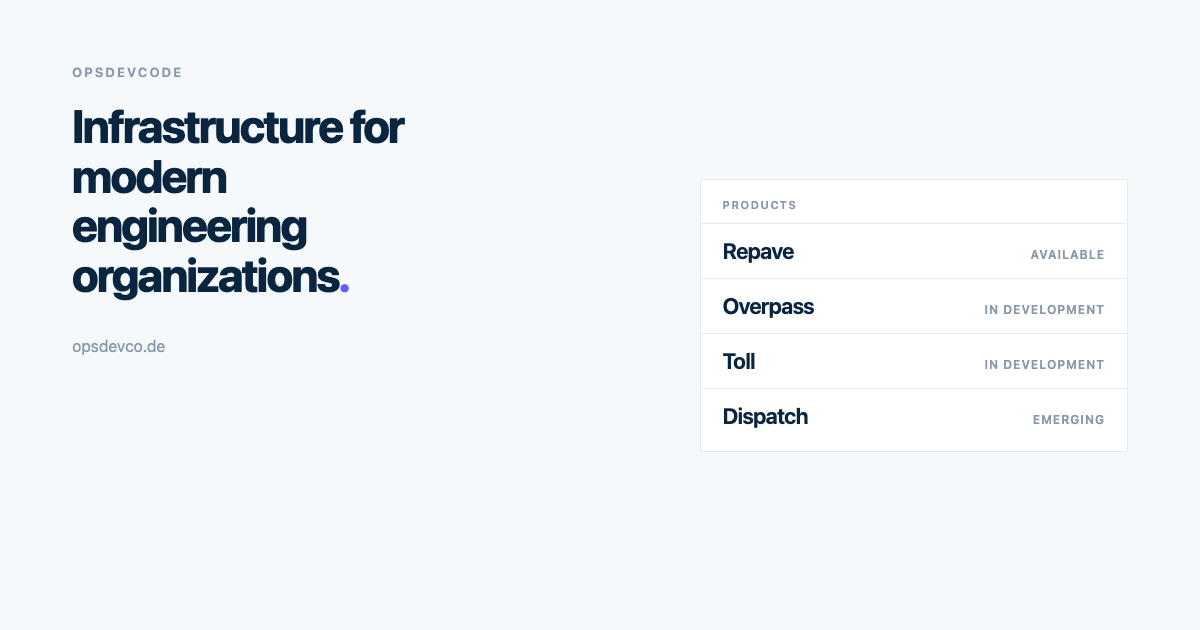
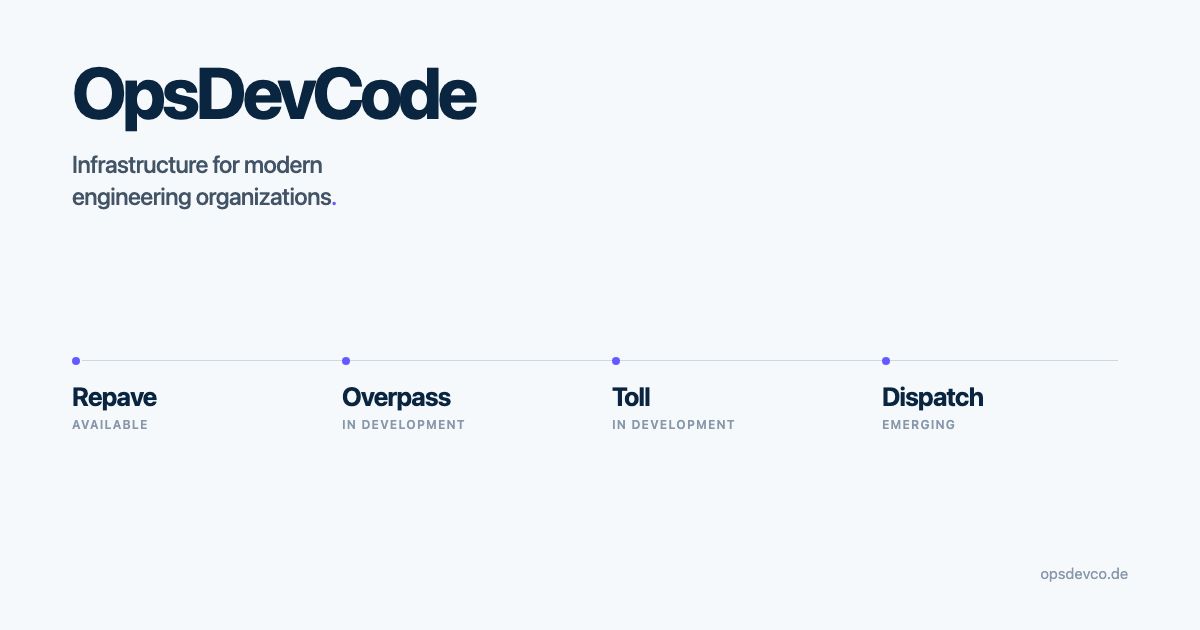
style(seo): make OpsDevCode dominant in social card

diff --git a/scripts/social-preview-v4.html b/scripts/social-preview-v4.html
@@ -20,94 +20,119 @@
           system-ui,
           -apple-system,
           sans-serif;
-        display: grid;
-        grid-template-columns: 1.15fr 0.85fr;
-        gap: 48px;
-        padding: 64px 72px;
+        display: flex;
+        flex-direction: column;
+        justify-content: space-between;
+        padding: 56px 72px 48px;
       }
-      .kicker {
-        font-size: 13px;
-        letter-spacing: 0.16em;
-        text-transform: uppercase;
-        color: #8898aa;
-        font-weight: 600;
-        margin-bottom: 22px;
-      }
-      h1 {
-        font-size: 46px;
-        letter-spacing: -0.045em;
-        line-height: 1.08;
+      .brand {
+        font-size: 72px;
         font-weight: 750;
-        max-width: 12ch;
+        letter-spacing: -0.055em;
+        line-height: 1;
       }
-      h1 span {
+      .thesis {
+        margin-top: 20px;
+        font-size: 24px;
+        font-weight: 500;
+        line-height: 1.35;
+        letter-spacing: -0.025em;
+        color: #425466;
+        max-width: 22ch;
+      }
+      .thesis span {
         color: #635bff;
       }
-      .url {
-        margin-top: 36px;
-        color: #8898aa;
-        font-size: 16px;
+      .system {
+        position: relative;
+        margin-top: 8px;
       }
-      .portfolio {
-        align-self: center;
-        background: #ffffff;
-        border: 1px solid #e6ebf1;
-        padding: 8px 0;
+      .system::before {
+        content: '';
+        position: absolute;
+        left: 10px;
+        right: 10px;
+        top: 7px;
+        height: 1px;
+        background: #cfd7df;
       }
-      .portfolio-label {
-        font-size: 11px;
-        letter-spacing: 0.14em;
-        text-transform: uppercase;
-        color: #8898aa;
-        font-weight: 600;
-        padding: 10px 22px 12px;
-      }
-      .row {
+      .products {
         display: grid;
-        grid-template-columns: 1fr auto;
-        align-items: baseline;
-        gap: 16px;
-        padding: 14px 22px;
-        border-top: 1px solid #e6ebf1;
+        grid-template-columns: repeat(4, 1fr);
+        gap: 24px;
+        position: relative;
+      }
+      .products p {
+        padding-top: 28px;
+      }
+      .node {
+        position: absolute;
+        top: 4px;
+        width: 8px;
+        height: 8px;
+        border-radius: 50%;
+        background: #635bff;
+      }
+      .products p:nth-child(1) .node {
+        left: 0;
+      }
+      .products p:nth-child(2) .node {
+        left: calc(25% + 6px);
+      }
+      .products p:nth-child(3) .node {
+        left: calc(50% + 12px);
+      }
+      .products p:nth-child(4) .node {
+        left: calc(75% + 18px);
       }
       .name {
-        font-size: 22px;
-        font-weight: 650;
-        letter-spacing: -0.03em;
+        display: block;
+        font-size: 26px;
+        font-weight: 700;
+        letter-spacing: -0.035em;
+        margin-bottom: 6px;
       }
       .status {
+        display: block;
         font-size: 12px;
-        letter-spacing: 0.08em;
+        letter-spacing: 0.1em;
         text-transform: uppercase;
         color: #8898aa;
         font-weight: 600;
+      }
+      .foot {
+        display: flex;
+        justify-content: flex-end;
+        font-size: 15px;
+        color: #8898aa;
       }
     </style>
   </head>
   <body>
     <div>
-      <p class="kicker">OpsDevCode</p>
-      <h1>Infrastructure for modern engineering organizations<span>.</span></h1>
-      <p class="url">opsdevco.de</p>
+      <p class="brand">OpsDevCode</p>
+      <p class="thesis">Infrastructure for modern engineering organizations<span>.</span></p>
     </div>
-    <div class="portfolio" aria-hidden="true">
-      <p class="portfolio-label">Products</p>
-      <div class="row">
-        <span class="name">Repave</span>
-        <span class="status">Available</span>
-      </div>
-      <div class="row">
-        <span class="name">Overpass</span>
-        <span class="status">In development</span>
-      </div>
-      <div class="row">
-        <span class="name">Toll</span>
-        <span class="status">In development</span>
-      </div>
-      <div class="row">
-        <span class="name">Dispatch</span>
-        <span class="status">Emerging</span>
+    <div class="system" aria-hidden="true">
+      <div class="products">
+        <p>
+          <span class="node"></span><span class="name">Repave</span
+          ><span class="status">Available</span>
+        </p>
+        <p>
+          <span class="node"></span><span class="name">Overpass</span
+          ><span class="status">In development</span>
+        </p>
+        <p>
+          <span class="node"></span><span class="name">Toll</span
+          ><span class="status">In development</span>
+        </p>
+        <p>
+          <span class="node"></span><span class="name">Dispatch</span
+          ><span class="status">Emerging</span>
+        </p>
       </div>
     </div>
+    <p class="foot">opsdevco.de</p>
   </body>
 </html>

diff --git a/src/app/page.tsx b/src/app/page.tsx
@@ -9,7 +9,7 @@ import { products } from '@/lib/products'
 import { CALENDLY_URL, CONTACT_EMAIL, SITE_DESCRIPTION, SITE_TAGLINE, SITE_URL } from '@/lib/site'
 
 const shareTitle = 'OpsDevCode — Infrastructure for modern engineering organizations'
-const socialPreviewImage = '/assets/preview-v4.png?v=8'
+const socialPreviewImage = '/assets/preview-v4.png?v=9'
 
 export const metadata: Metadata = {
   title: { absolute: 'OpsDevCode' },
